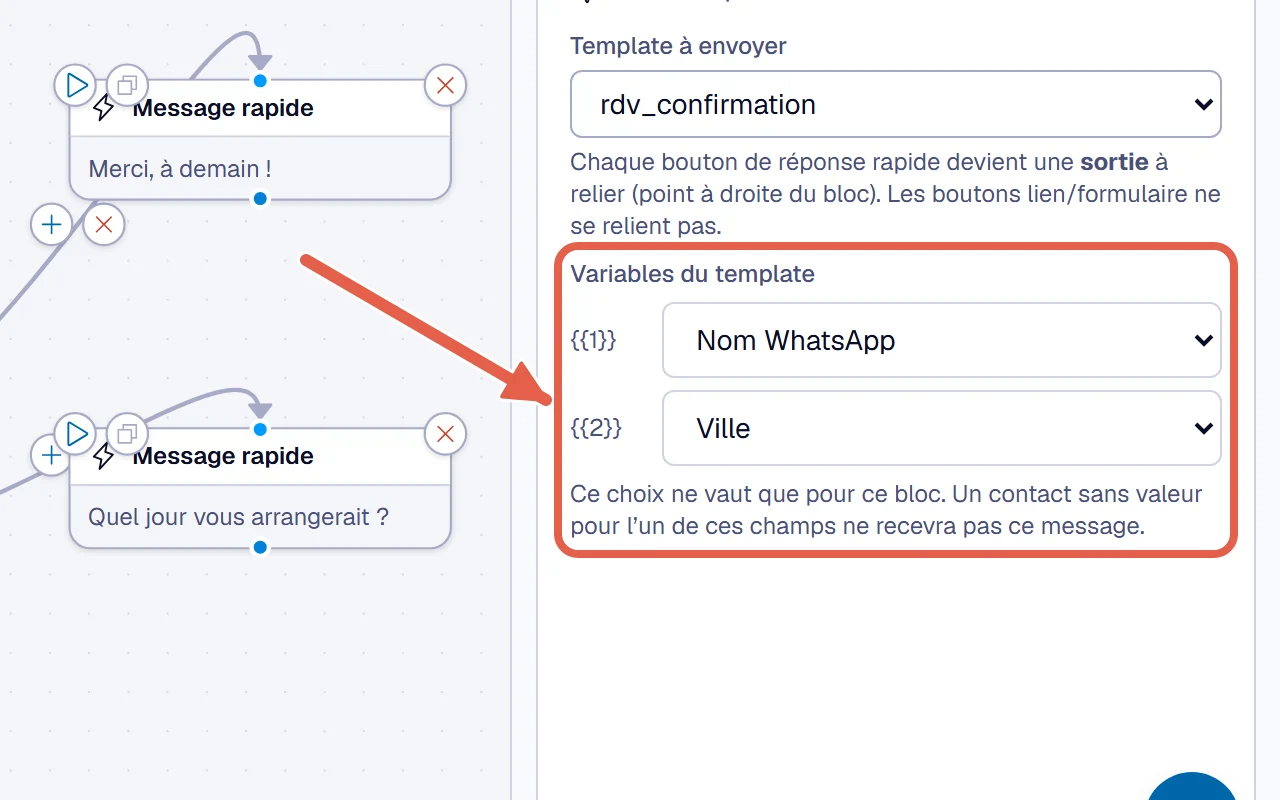
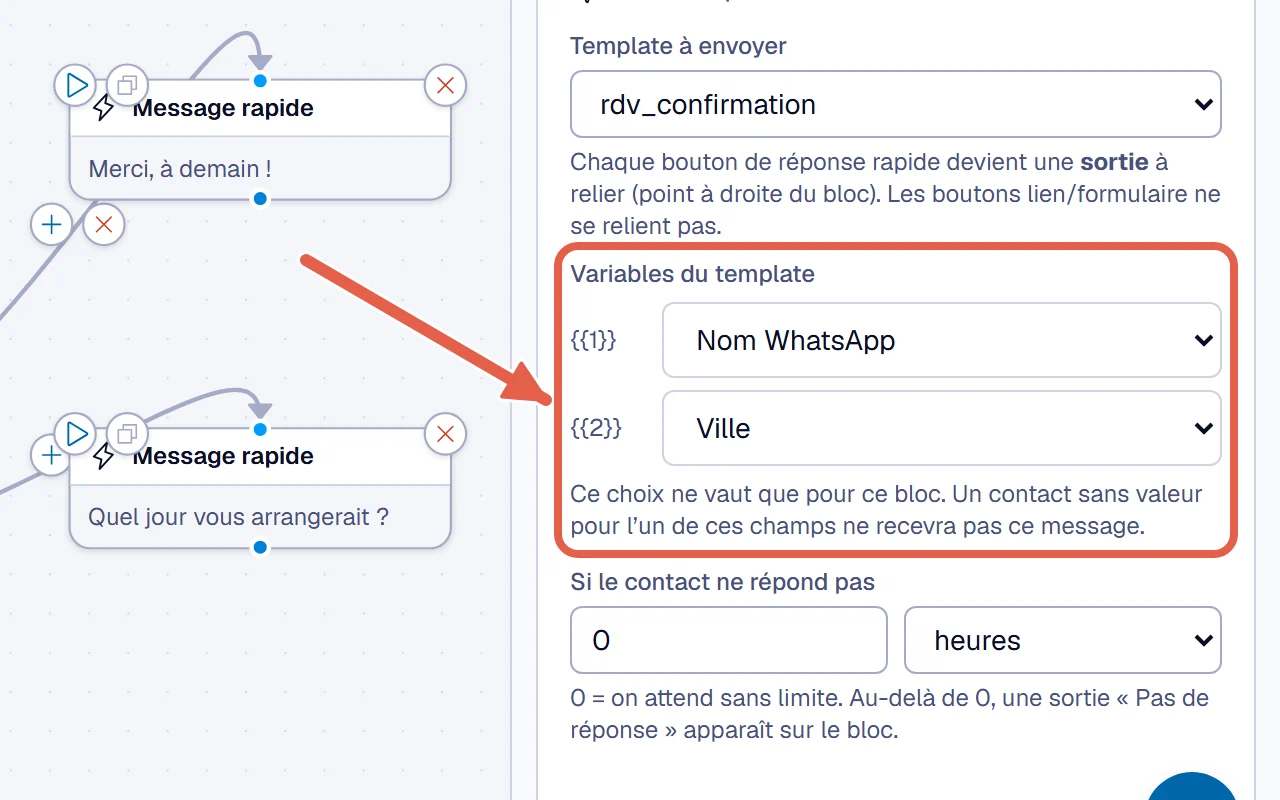
docs(aide): la capture de l'étape « Prévoir l'absence de réponse » du bloc template
La fiche du bloc template gagne une étape : sa capture (la sortie « Pas de
réponse » reliée à la relance) en français et en anglais, l'ancienne étape
5 devenue 6, la capture des variables refaite (le réglage du délai paraît
dessous) ; les pages de l'aide régénérées, le compte des captures à 284 ;
le manuel dit la dominance par bloc de l'analyse de fenêtre.

diff --git a/site/aide/bloc-envoi-template/index.html b/site/aide/bloc-envoi-template/index.html
@@ -387,11 +387,11 @@
     </nav>
     <article class="aide-article">
       <div class="aide-etape" id="etape-1"><div><h3>1. Choisir le template</h3><p>Cliquez sur le bloc&nbsp;: son panneau s'ouvre à droite, la liste «&nbsp;Template à envoyer&nbsp;» en haut.</p><details class="aide-detail"><summary>En détail</summary><ul><li>Seuls les templates approuvés par WhatsApp sont proposés. Sur la toile, le bloc en montre une miniature.</li><li>Il part même dans une conversation fermée depuis plus de 24 heures, y compris au réveil d'une attente.</li><li>En premier bloc d'un scénario lancé en campagne, c'est lui que la campagne envoie&nbsp;: tant qu'il est vide, le scénario ne peut pas partir en campagne.</li><li>Deux templates du même nom en deux langues ne se départagent pas&nbsp;: un seul des deux part.</li></ul></details></div><a class="aide-capture" href="/img/aide/bloc-envoi-template/etape-1.webp?v=bfe6e966" title="Voir la capture en grand"><img src="/img/aide/bloc-envoi-template/etape-1.webp?v=bfe6e966" alt="Étape 1 : Choisir le template" width="1280" height="800" loading="lazy"></a></div>
-      <div class="aide-etape" id="etape-2"><div><h3>2. Relier chaque variable</h3><p>Sous «&nbsp;Variables du template&nbsp;», chaque {{1}}, {{2}}… a sa liste&nbsp;: un champ du contact, la date du jour ou un texte fixe.</p><details class="aide-detail"><summary>En détail</summary><ul><li>Chaque variable suit d'abord le champ choisi quand le template a été écrit. Votre choix ne vaut que pour ce bloc&nbsp;; le template et sa validation chez WhatsApp ne bougent pas.</li><li>«&nbsp;Reprendre les champs du template&nbsp;» annule vos choix.</li><li>Une variable reliée à rien est bordée de rouge&nbsp;: le bloc ne partira pas.</li><li>Un contact dont le champ est vide ne reçoit pas le template&nbsp;: en cours de parcours, la conversation passe à votre équipe et le Journal des erreurs dit pourquoi&nbsp;; au lancement d'une campagne, il est compté en échec.</li><li>«&nbsp;Date du jour&nbsp;» s'écrit JJ/MM/AAAA, à l'heure de Paris.</li><li>Premier template d'un scénario lancé en campagne&nbsp;: ses variables se choisissent à l'étape Contenu de la campagne, qui reprend vos choix.</li></ul></details></div><a class="aide-capture" href="/img/aide/bloc-envoi-template/etape-2.webp?v=d8491289" title="Voir la capture en grand"><img src="/img/aide/bloc-envoi-template/etape-2.webp?v=d8491289" alt="Étape 2 : Relier chaque variable" width="1280" height="800" loading="lazy"></a></div>
+      <div class="aide-etape" id="etape-2"><div><h3>2. Relier chaque variable</h3><p>Sous «&nbsp;Variables du template&nbsp;», chaque {{1}}, {{2}}… a sa liste&nbsp;: un champ du contact, la date du jour ou un texte fixe.</p><details class="aide-detail"><summary>En détail</summary><ul><li>Chaque variable suit d'abord le champ choisi quand le template a été écrit. Votre choix ne vaut que pour ce bloc&nbsp;; le template et sa validation chez WhatsApp ne bougent pas.</li><li>«&nbsp;Reprendre les champs du template&nbsp;» annule vos choix.</li><li>Une variable reliée à rien est bordée de rouge&nbsp;: le bloc ne partira pas.</li><li>Un contact dont le champ est vide ne reçoit pas le template&nbsp;: en cours de parcours, la conversation passe à votre équipe et le Journal des erreurs dit pourquoi&nbsp;; au lancement d'une campagne, il est compté en échec.</li><li>«&nbsp;Date du jour&nbsp;» s'écrit JJ/MM/AAAA, à l'heure de Paris.</li><li>Premier template d'un scénario lancé en campagne&nbsp;: ses variables se choisissent à l'étape Contenu de la campagne, qui reprend vos choix.</li></ul></details></div><a class="aide-capture" href="/img/aide/bloc-envoi-template/etape-2.webp?v=244df9e2" title="Voir la capture en grand"><img src="/img/aide/bloc-envoi-template/etape-2.webp?v=244df9e2" alt="Étape 2 : Relier chaque variable" width="1280" height="800" loading="lazy"></a></div>
       <div class="aide-etape" id="etape-3"><div><h3>3. Relier chaque bouton de réponse</h3><p>Chaque réponse rapide du template devient un point à droite du bloc&nbsp;: tirez une flèche vers le bloc qui suit.</p><details class="aide-detail"><summary>En détail</summary><ul><li>Les boutons de lien ou de formulaire n'ont pas de point&nbsp;: ils ouvrent une page et ne renvoient rien.</li><li>Carousel&nbsp;: chaque réponse rapide de chaque carte a son point, marqué C1, C2…</li><li>Un point rouge est un bouton relié à rien. S'il est tapé, le contact passe par «&nbsp;Toute autre réponse&nbsp;» si elle est reliée&nbsp;; sinon, il ne reçoit rien et la conversation passe à votre équipe, dans «&nbsp;À traiter&nbsp;».</li></ul></details></div><a class="aide-capture" href="/img/aide/bloc-envoi-template/etape-3.webp?v=66d1a164" title="Voir la capture en grand"><img src="/img/aide/bloc-envoi-template/etape-3.webp?v=66d1a164" alt="Étape 3 : Relier chaque bouton de réponse" width="1280" height="800" loading="lazy"></a></div>
       <div class="aide-etape" id="etape-4"><div><h3>4. Prévoir les autres réponses</h3><p>Le point «&nbsp;Toute autre réponse&nbsp;» sert quand le contact écrit au lieu de taper un bouton.</p><details class="aide-detail"><summary>En détail</summary><ul><li>Un emoji en réaction au template compte comme une autre réponse.</li><li>Relié à rien, le parcours s'arrête et la conversation revient à celui qui répond d'habitude à vos clients.</li></ul></details></div><a class="aide-capture" href="/img/aide/bloc-envoi-template/etape-4.webp?v=86a8389f" title="Voir la capture en grand"><img src="/img/aide/bloc-envoi-template/etape-4.webp?v=86a8389f" alt="Étape 4 : Prévoir les autres réponses" width="1280" height="800" loading="lazy"></a></div>
-      <div class="aide-etape" id="etape-5"><div><h3>5. Prévoir l'absence de réponse</h3><p>Sous «&nbsp;Si le contact ne répond pas&nbsp;», posez un délai en minutes, en heures ou en jours (30 jours au plus)&nbsp;: une sortie «&nbsp;Pas de réponse&nbsp;» apparaît sur le bloc. Reliez-la à la relance.</p><details class="aide-detail"><summary>En détail</summary><ul><li>Passé ce délai sans réponse, le parcours part par là&nbsp;; un bouton tapé ou un message écrit avant lui prennent leur sortie habituelle. Le délai est tenu à la minute près environ&nbsp;; sur une grosse campagne, les relances s'étalent.</li><li>Ce qui suit cette sortie part sans que le client ait répondu&nbsp;: si la conversation n'était pas ouverte, ce doit être un template. Le constructeur le signale en jaune, sans rien refuser.</li><li>Un bouton tapé sur un ancien message, une fois la relance partie, compte comme un message écrit&nbsp;: il ne prend pas la branche du bouton de même rang de la relance.</li><li>Un message arrivé à l'instant même où la relance part ne fait pas avancer le parcours et ne reçoit pas de réponse automatique&nbsp;: il vous attend dans l'Inbox.</li><li>Un template à délai ne peut plus être envoyé seul par l'outil d'un agent.</li><li>Repasser le délai à 0 retire la sortie et sa flèche.</li></ul></details></div><a class="aide-capture" href="/img/aide/bloc-envoi-template/etape-5.webp?v=9aac94b1" title="Voir la capture en grand"><img src="/img/aide/bloc-envoi-template/etape-5.webp?v=9aac94b1" alt="Étape 5 : Prévoir l'absence de réponse" width="1280" height="800" loading="lazy"></a></div>
-      <div class="aide-etape sans-capture" id="etape-6"><div><h3>6. Enchaîner après un template sans bouton</h3><p>Le bloc n'a qu'un point, en bas&nbsp;: reliez-le au bloc qui suit.</p><details class="aide-detail"><summary>En détail</summary><ul><li>La suite part quand le contact répond, quoi qu'il réponde. Sans réponse, le parcours attend sans limite, sauf avec un délai (étape 5).</li><li>Exception&nbsp;: si l'agent de Meta répond à vos clients, la suite part tout de suite, sauf avec un délai&nbsp;: le bloc attend alors la réponse.</li><li>Si votre équipe ou l'agent de Meta a repris la conversation, la réponse du contact ne fait plus avancer le parcours.</li></ul></details></div></div>
+      <div class="aide-etape" id="etape-5"><div><h3>5. Prévoir l'absence de réponse</h3><p>Sous «&nbsp;Si le contact ne répond pas&nbsp;», posez un délai en minutes, en heures ou en jours (30 jours au plus)&nbsp;: une sortie «&nbsp;Pas de réponse&nbsp;» apparaît sur le bloc. Reliez-la à la relance.</p><details class="aide-detail"><summary>En détail</summary><ul><li>Passé ce délai sans réponse, le parcours part par là&nbsp;; un bouton tapé ou un message écrit avant lui prennent leur sortie habituelle. Le délai est tenu à la minute près environ&nbsp;; sur une grosse campagne, les relances s'étalent.</li><li>Ce qui suit cette sortie part sans que le client ait répondu&nbsp;: si la conversation n'était pas ouverte, ce doit être un template. Le constructeur le signale en jaune, sans rien refuser.</li><li>Un bouton tapé sur un ancien message, une fois la relance partie, compte comme un message écrit&nbsp;: il ne prend pas la branche du bouton de même rang de la relance.</li><li>Un message arrivé à l'instant même où la relance part ne fait pas avancer le parcours et ne reçoit pas de réponse automatique&nbsp;: il vous attend dans l'Inbox.</li><li>Un template à délai ne peut plus être envoyé seul par l'outil d'un agent.</li><li>Repasser le délai à 0 retire la sortie et sa flèche.</li></ul></details></div><a class="aide-capture" href="/img/aide/bloc-envoi-template/etape-5.webp?v=f6838558" title="Voir la capture en grand"><img src="/img/aide/bloc-envoi-template/etape-5.webp?v=f6838558" alt="Étape 5 : Prévoir l'absence de réponse" width="1280" height="800" loading="lazy"></a></div>
+      <div class="aide-etape" id="etape-6"><div><h3>6. Enchaîner après un template sans bouton</h3><p>Le bloc n'a qu'un point, en bas&nbsp;: reliez-le au bloc qui suit.</p><details class="aide-detail"><summary>En détail</summary><ul><li>La suite part quand le contact répond, quoi qu'il réponde. Sans réponse, le parcours attend sans limite, sauf avec un délai (étape 5).</li><li>Exception&nbsp;: si l'agent de Meta répond à vos clients, la suite part tout de suite, sauf avec un délai&nbsp;: le bloc attend alors la réponse.</li><li>Si votre équipe ou l'agent de Meta a repris la conversation, la réponse du contact ne fait plus avancer le parcours.</li></ul></details></div><a class="aide-capture" href="/img/aide/bloc-envoi-template/etape-6.webp?v=9aac94b1" title="Voir la capture en grand"><img src="/img/aide/bloc-envoi-template/etape-6.webp?v=9aac94b1" alt="Étape 6 : Enchaîner après un template sans bouton" width="1280" height="800" loading="lazy"></a></div>
       <div class="aide-pied-page">
         <a class="aide-precedente" href="/aide/creer-un-scenario/">Précédent&nbsp;: Créer un scénario</a>
         <a class="aide-suivante" href="/aide/bloc-message-rapide/">Suivant&nbsp;: Le bloc Message rapide</a>

diff --git a/site/en/help/send-template-block/index.html b/site/en/help/send-template-block/index.html
@@ -387,11 +387,11 @@
     </nav>
     <article class="aide-article">
       <div class="aide-etape" id="etape-1"><div><h3>1. Choose the template</h3><p>Click the block: its panel opens on the right, with the "Template to send" list at the top.</p><details class="aide-detail"><summary>In detail</summary><ul><li>Only templates approved by WhatsApp are offered. On the canvas, the block shows a thumbnail of it.</li><li>It goes out even in a conversation closed for more than 24 hours, including when a wait wakes up.</li><li>As the first block of a scenario launched as a campaign, it is what the campaign sends: while it is empty, the scenario cannot go out as a campaign.</li><li>Two templates with the same name in two languages are not told apart: only one of them goes out.</li></ul></details></div><a class="aide-capture" href="/img/aide/bloc-envoi-template/etape-1-en.webp?v=36b879a2" title="View the screenshot full size"><img src="/img/aide/bloc-envoi-template/etape-1-en.webp?v=36b879a2" alt="Step 1: Choose the template" width="1280" height="800" loading="lazy"></a></div>
-      <div class="aide-etape" id="etape-2"><div><h3>2. Connect each variable</h3><p>Under "Template variables", each {{1}}, {{2}}… has its list: a contact field, today's date or a fixed text.</p><details class="aide-detail"><summary>In detail</summary><ul><li>Each variable first follows the field chosen when the template was written. Your choice only applies to this block; the template and its approval by WhatsApp do not change.</li><li>"Use the template fields" cancels your choices.</li><li>A variable connected to nothing has a red border: the block will not go out.</li><li>A contact whose field is empty does not receive the template: during a journey, the conversation goes to your team and the Error log says why; when a campaign is launched, it counts as a failure.</li><li>"Today's date" is written DD/MM/YYYY, in Paris time.</li><li>First template of a scenario launched as a campaign: its variables are chosen at the Content step of the campaign, which takes over your choices.</li></ul></details></div><a class="aide-capture" href="/img/aide/bloc-envoi-template/etape-2-en.webp?v=cce4dd15" title="View the screenshot full size"><img src="/img/aide/bloc-envoi-template/etape-2-en.webp?v=cce4dd15" alt="Step 2: Connect each variable" width="1280" height="800" loading="lazy"></a></div>
+      <div class="aide-etape" id="etape-2"><div><h3>2. Connect each variable</h3><p>Under "Template variables", each {{1}}, {{2}}… has its list: a contact field, today's date or a fixed text.</p><details class="aide-detail"><summary>In detail</summary><ul><li>Each variable first follows the field chosen when the template was written. Your choice only applies to this block; the template and its approval by WhatsApp do not change.</li><li>"Use the template fields" cancels your choices.</li><li>A variable connected to nothing has a red border: the block will not go out.</li><li>A contact whose field is empty does not receive the template: during a journey, the conversation goes to your team and the Error log says why; when a campaign is launched, it counts as a failure.</li><li>"Today's date" is written DD/MM/YYYY, in Paris time.</li><li>First template of a scenario launched as a campaign: its variables are chosen at the Content step of the campaign, which takes over your choices.</li></ul></details></div><a class="aide-capture" href="/img/aide/bloc-envoi-template/etape-2-en.webp?v=25357ffe" title="View the screenshot full size"><img src="/img/aide/bloc-envoi-template/etape-2-en.webp?v=25357ffe" alt="Step 2: Connect each variable" width="1280" height="800" loading="lazy"></a></div>
       <div class="aide-etape" id="etape-3"><div><h3>3. Connect each reply button</h3><p>Each quick reply of the template becomes a dot on the right of the block: drag an arrow to the next block.</p><details class="aide-detail"><summary>In detail</summary><ul><li>Link or form buttons have no dot: they open a page and send nothing back.</li><li>Carousel: each quick reply of each card has its dot, marked C1, C2…</li><li>A red dot is a button connected to nothing. If it is tapped, the contact goes through "Any other reply" if it is connected; otherwise, they get nothing and the conversation goes to your team, in "To handle".</li></ul></details></div><a class="aide-capture" href="/img/aide/bloc-envoi-template/etape-3-en.webp?v=58ae7820" title="View the screenshot full size"><img src="/img/aide/bloc-envoi-template/etape-3-en.webp?v=58ae7820" alt="Step 3: Connect each reply button" width="1280" height="800" loading="lazy"></a></div>
       <div class="aide-etape" id="etape-4"><div><h3>4. Plan for other replies</h3><p>The "Any other reply" dot is used when the contact writes instead of tapping a button.</p><details class="aide-detail"><summary>In detail</summary><ul><li>An emoji reaction to the template counts as another reply.</li><li>Connected to nothing, the journey stops and the conversation goes back to whoever usually answers your customers.</li></ul></details></div><a class="aide-capture" href="/img/aide/bloc-envoi-template/etape-4-en.webp?v=832bff05" title="View the screenshot full size"><img src="/img/aide/bloc-envoi-template/etape-4-en.webp?v=832bff05" alt="Step 4: Plan for other replies" width="1280" height="800" loading="lazy"></a></div>
-      <div class="aide-etape" id="etape-5"><div><h3>5. Plan for no reply</h3><p>Under "If the contact does not reply", set a delay in minutes, hours or days (30 days at most): a "No reply" output appears on the block. Connect it to the follow-up.</p><details class="aide-detail"><summary>In detail</summary><ul><li>Once the delay passes without a reply, the journey goes that way; a button tapped or a message written before it takes its usual output. The delay is kept to about the minute; on a large campaign, the follow-ups are spread out.</li><li>What follows this output goes out before the customer has replied: if the conversation was not open, it must be a template. The builder flags it in yellow, without refusing anything.</li><li>A button tapped on an old message, once the follow-up has gone out, counts as a written message: it does not take the branch of the follow-up's button in the same position.</li><li>A message that arrives at the very moment the follow-up goes out does not move the journey forward and gets no automatic reply: it waits for you in the Inbox.</li><li>A template with a delay can no longer be sent on its own by an agent's tool.</li><li>Setting the delay back to 0 removes the output and its arrow.</li></ul></details></div><a class="aide-capture" href="/img/aide/bloc-envoi-template/etape-5-en.webp?v=dbac0e00" title="View the screenshot full size"><img src="/img/aide/bloc-envoi-template/etape-5-en.webp?v=dbac0e00" alt="Step 5: Plan for no reply" width="1280" height="800" loading="lazy"></a></div>
-      <div class="aide-etape sans-capture" id="etape-6"><div><h3>6. Chain after a template without buttons</h3><p>The block has only one dot, at the bottom: connect it to the next block.</p><details class="aide-detail"><summary>In detail</summary><ul><li>What follows goes out when the contact replies, whatever the reply. Without a reply, the journey waits with no time limit, unless a delay is set (step 5).</li><li>Exception: if Meta's agent answers your customers, what follows goes out right away, unless a delay is set: the block then waits for the reply.</li><li>If your team or Meta's agent took over the conversation, the contact's reply no longer moves the journey forward.</li></ul></details></div></div>
+      <div class="aide-etape" id="etape-5"><div><h3>5. Plan for no reply</h3><p>Under "If the contact does not reply", set a delay in minutes, hours or days (30 days at most): a "No reply" output appears on the block. Connect it to the follow-up.</p><details class="aide-detail"><summary>In detail</summary><ul><li>Once the delay passes without a reply, the journey goes that way; a button tapped or a message written before it takes its usual output. The delay is kept to about the minute; on a large campaign, the follow-ups are spread out.</li><li>What follows this output goes out before the customer has replied: if the conversation was not open, it must be a template. The builder flags it in yellow, without refusing anything.</li><li>A button tapped on an old message, once the follow-up has gone out, counts as a written message: it does not take the branch of the follow-up's button in the same position.</li><li>A message that arrives at the very moment the follow-up goes out does not move the journey forward and gets no automatic reply: it waits for you in the Inbox.</li><li>A template with a delay can no longer be sent on its own by an agent's tool.</li><li>Setting the delay back to 0 removes the output and its arrow.</li></ul></details></div><a class="aide-capture" href="/img/aide/bloc-envoi-template/etape-5-en.webp?v=023a6655" title="View the screenshot full size"><img src="/img/aide/bloc-envoi-template/etape-5-en.webp?v=023a6655" alt="Step 5: Plan for no reply" width="1280" height="800" loading="lazy"></a></div>
+      <div class="aide-etape" id="etape-6"><div><h3>6. Chain after a template without buttons</h3><p>The block has only one dot, at the bottom: connect it to the next block.</p><details class="aide-detail"><summary>In detail</summary><ul><li>What follows goes out when the contact replies, whatever the reply. Without a reply, the journey waits with no time limit, unless a delay is set (step 5).</li><li>Exception: if Meta's agent answers your customers, what follows goes out right away, unless a delay is set: the block then waits for the reply.</li><li>If your team or Meta's agent took over the conversation, the contact's reply no longer moves the journey forward.</li></ul></details></div><a class="aide-capture" href="/img/aide/bloc-envoi-template/etape-6-en.webp?v=dbac0e00" title="View the screenshot full size"><img src="/img/aide/bloc-envoi-template/etape-6-en.webp?v=dbac0e00" alt="Step 6: Chain after a template without buttons" width="1280" height="800" loading="lazy"></a></div>
       <div class="aide-pied-page">
         <a class="aide-precedente" href="/en/help/create-a-scenario/">Previous: Create a scenario</a>
         <a class="aide-suivante" href="/en/help/quick-message-block/">Next: The Quick message block</a>

diff --git a/tests/vitrine-aide.test.ts b/tests/vitrine-aide.test.ts
@@ -157,8 +157,9 @@ describe('le centre d’aide de la vitrine', () => {
     // 146 avec les sept captures fléchées du « bloc Message rapide » (le même jour) ; 198 avec les 26 du lot 2 (Envoi
     // template 5, Question 6, Action 5, Condition 5, Attente 5) ; 282 avec les 42 du lot 3 (« Créer un scénario » 6,
     // Formulaire 5, Assigner 2, Envoyer au MBA 2, Aller à 3, Fonction JS 5, RCS 5, mail 3, Agent IA 3, Appel API 3,
-    // Extraire du JSON 5).
-    expect(vues).toBe(282);
+    // Extraire du JSON 5) ; 284 avec l'étape « Prévoir l'absence de réponse » de l'Envoi template (2026-11-18, menu
+    // « Scénario », lot 2).
+    expect(vues).toBe(284);
   });
 
   it('chaque page de la vitrine mène au centre d’aide et au blog par « Ressources », au bureau et dans le burger, et à l’aide en pied de page', () => {

diff --git a/documentation.md b/documentation.md
@@ -2113,8 +2113,9 @@ Les colonnes citées sont celles dont le comportement dépend. La forme complèt
   `analyserFenetre` (`web/lib/partage/fenetre-scenario.ts`), part des DÉPARTS d'un scénario (ouverts ou fermés) et relève
   un message de session atteint fenêtre fermée, ou un « Aller à » vers un autre scénario atteint fermé. Une réponse ou un
   clic rouvre la fenêtre ; la sortie « Pas de réponse » la laisse en l'état et ajoute son délai ; une Attente ajoute sa
-  durée ; 24 h cumulées ferment. Chaque délai compte au moins 60 s (le pas du balayage) : un cycle d'attentes minuscules
-  reste borné. Chaque côté fournit SA lecture des blocs (`REGLES_FENETRE_MOTEUR`, `REGLES_FENETRE_CONSOLE`), tenues
+  durée ; 24 h cumulées ferment. Chaque délai compte au moins 60 s (le pas du balayage), et l'analyse ne garde qu'UNE
+  valeur par bloc, par dominance (fenêtre fermée, sinon le plus grand cumul ouvert) : des boucles d'attentes de durées
+  différentes restaient sinon combinatoires (46 s et 1,4 Go pour trois boucles fractionnaires, relecture de 2b-1). Chaque côté fournit SA lecture des blocs (`REGLES_FENETRE_MOTEUR`, `REGLES_FENETRE_CONSOLE`), tenues
   égales par `tests/fenetre-parite.test.ts`. Les départs viennent du serveur (`departsDuScenario`, rendus par
   `GET /workflows/:id`) : fermé pour les rayons Shopify et HubSpot, ouvert à l'entrée pour le Builder, plus un départ
   fermé par campagne active et par automation allumée dont le déclencheur ne naît pas d'un message
